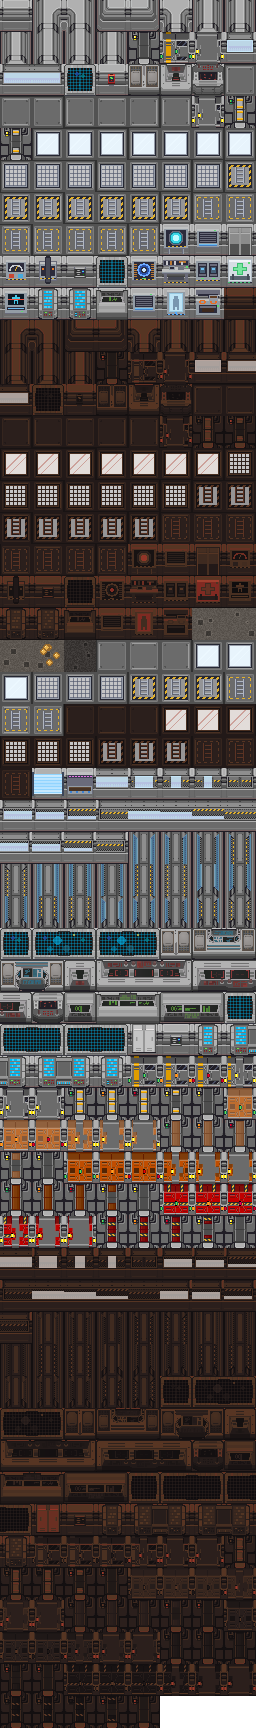
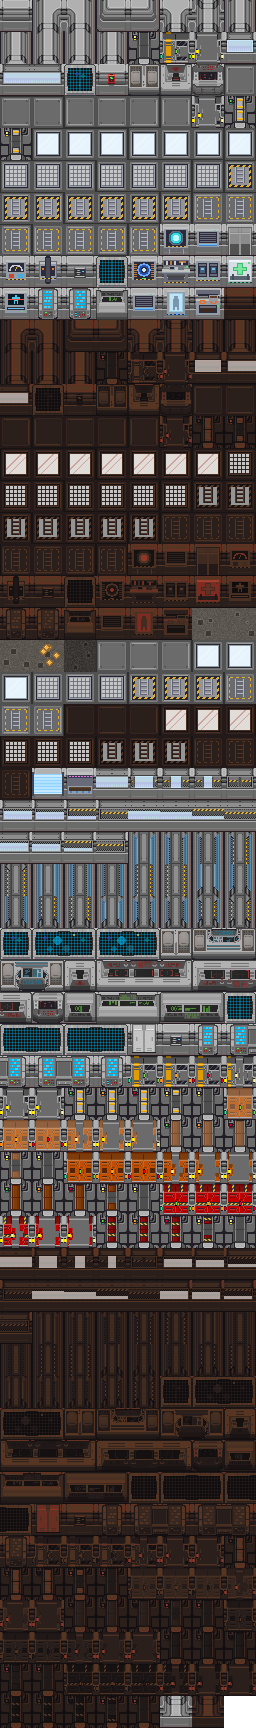
v90.1: join walls that meet a horizontal wall from above
The author's note on the v90 preview: "Wall dont have cross connection".
His set has the T joint only one way (a wall going down from the band), so
a wall coming down onto the band was drawn as a plain horizontal wall and
the crossing had no arms. Both joints are now made from his T turned over:
the crossing gets curves on both sides, and a new wall_tup piece (end of
the sheet, with its pirate copy) is a wall meeting the band from above.
MapBuilder picks it the same way; maps rebuilt. Version 0.83.1.

Claude-Session: https://claude.ai/code/session_013aoAwBojNkRjbTsNYM5ib2

Changed region(s): [[0.625, 0.9688, 0.875, 1.0], [0.8438, 0.0, 0.875, 0.0312], [0.75, 0.0, 0.7812, 0.0312]]

diff --git a/tools/make_assets.py b/tools/make_assets.py
@@ -177,6 +177,10 @@ for _type in DOOR_TYPES:
             LOOKS.append(("door_%s_%s_open%d" % (_type, _o, _i), None, "door"))
 TILES += LOOKS
 TILES += [(PIRATE + _name, None, _kind) for _name, _src, _kind in LOOKS]
+# (v90.1, the author: "Wall dont have cross connection") a horizontal wall that a vertical one meets
+# from above only (a turned T); last, as above
+TILES.append(("wall_tup", None, "wall"))
+TILES.append((PIRATE + "wall_tup", None, "wall"))
 ATLAS_COLS = 8
 
 
@@ -249,7 +253,6 @@ NEW_ART = {
     "wall_bl": "external_corner_l",
     "wall_br": "external_corner_r",
     "wall_tdown": "T-shaped_corner",
-    "wall_cross": "vertical_wall_down_to_T-shaped_corner",
     "wall_v": "vertical_wall",
     "wall_v_end": "vertical_wall_to_T-shaped_corner",
     "wall_v_end_l": "vertical_wall_to_internal_corner_r",
@@ -310,11 +313,22 @@ def art_transplant(old, old_wall, wall):
     return out
 
 
+# (v90.1) wall joints made from his T: the band piece below, and how many rows of the turned T go over it
+WALL_JOINS = {"wall_cross": ("T-shaped_corner", 16), "wall_tup": ("horizontal_wall", 20)}
+
+
 def art_tile(art, mock, images, name):
     """The picture for a tile of the sheet from the author's set, or None (drawn as before)."""
     floor = art["floor_m"]
     if name in NEW_ART:
         return art[NEW_ART[name]]
+    if name in WALL_JOINS:
+        # his set has the T only one way (a wall going down from the band): the ones going up are it
+        # turned over, its top rows over the band (rows 0..rows)
+        base, rows = WALL_JOINS[name]
+        im = art[base].copy()
+        im.paste(art["T-shaped_corner"].transpose(Image.FLIP_TOP_BOTTOM).crop((0, 0, 32, rows)), (0, 0))
+        return im
     if name == "door_half":
         return art_on(floor, art["Door_horizontal_base_open_stage_2"])
     if name == "door_open":
@@ -993,7 +1007,7 @@ def resolve_map(name, lines, ids, w, h, above, below):
                         if c == "D":
                             doors.append([x, y, "D"])
                     elif e and wst:
-                        piece = "wall_cross" if (n and s) else ("wall_tdown" if s else "wall_h")
+                        piece = "wall_cross" if (n and s) else ("wall_tdown" if s else ("wall_tup" if n else "wall_h"))
                     elif e and not wst:
                         if n == s:
                             raise MapError(f"{name}: wall end at {x},{y} has no matching corner piece")

diff --git a/CLAUDE.md b/CLAUDE.md
@@ -34,7 +34,7 @@ needs:
 
 ## Where things stand
 
-Build v90 (version 0.83: the author's own tile set for walls, floors, doors, windows and machines) is the latest. Plans one to four are done except the darkness front (the
+Build v90.1 (version 0.83.1: the author's own tile set for walls, floors, doors, windows and machines; v90.1 joins walls meeting from above) is the latest. Plans one to four are done except the darkness front (the
 author is still thinking it through); builds v40 to v60 were the author's own requests, one build each.
 v58 and v59 built the gear tiers plan (`/mnt/project-files/plans/tiers-plan.md`): guns in v58, ship gear
 (systems' tiers, the module bay, armour, focusing array, phase drive) in v59. v60 began the road plan
@@ -119,7 +119,7 @@ suit, wrecks and bodies kept, bots climb ladders whatever is in front, «К ор
 hunters 1.25x fewer, click a system to jump, a drawn gun sight, sounds heard from the feet.
 v90 (his Aseprite tile set, `art_src/tileset/`; questions on `https://claude.ai/artifact/FkyjH7eBxzYEQhCXbPkNFG`): every wall,
 floor, window and door from his set, doors in four kinds with lamps and open stages, ten machines (wide over a row of signs, from
-behind when facing up); the rest of his set (stairs, holo table, soil, floor lamps, window stages, lockers, boxes) waits for his answers.
+behind when facing up); the rest of his set (stairs, holo table, soil, floor lamps, window stages, lockers, boxes) waits for his answers. v90.1 (his note): walls meeting from above are joined (`wall_tup`, the crossing from his T turned over).
 Engines and complex atmosphere (gases, fire, electricity) only after asking the author in detail.
 
 The author's standing rules (details in `docs/DECISIONS.md`):

diff --git a/docs/DECISIONS.md b/docs/DECISIONS.md
@@ -1799,3 +1799,12 @@ Questions on "Spacer v89 Notes" (https://claude.ai/artifact/FryDUDpk8c5nbDpC3mJG
   table and sphere, ship icons, the brown and red lockers, the med/tech/fire boxes, button and wall light, soil floor, floor lamps,
   danger line, vent, stairs. The stairs are 48 and 64 px tall, so they cannot go in the 32-px sheet as they are.
 
+
+## v90.1: wall crossings (the author: "Wall dont have cross connection")
+
+- **His set has the T joint only one way**: a vertical wall going down from a horizontal one (`T-shaped_corner`). Where a
+  vertical wall meets the band from above, the band was drawn plain (`horizontal_wall`) and his
+  `vertical_wall_down_to_T-shaped_corner` crossing has no arms, so the walls looked cut. Mine: both joints are made from his T
+  turned upside down (`WALL_JOINS` in `make_assets.py`): the crossing is the T with the turned T's top 16 rows over it, and
+  a new `wall_tup` (a wall from above only) is the horizontal wall with the turned T's top 20 rows. `wall_tup` is new, so it
+  goes at the end of the sheet (with its pirate copy) and the maps are rebuilt (`MapBuilder` picks it the same way).

diff --git a/docs/HISTORY.md b/docs/HISTORY.md
@@ -205,6 +205,12 @@ Open problems:
 - Client only, protocol unchanged; `edittest` checks every look tile is in the sheet (44 scripts). Version 0.83, build in
   `/mnt/project-files/builds/v90/`.
 
+
+### v90.1 (his note on the preview: "Wall dont have cross connection")
+
+- Where a vertical wall meets a horizontal one from above, the joint is drawn now: the crossing and a new turned-T piece
+  (`wall_tup`, at the end of the sheet) made from his T. Maps rebuilt. Version 0.83.1, build in `/mnt/project-files/builds/v90.1/`.
+
 ### v89 (his 18 Notebook notes; questions on "Spacer v89 Notes")
 
 - Fixed: guns switched off by a power shortage (ion storm) now come back on by themselves; teleported pirates arrive

diff --git a/docs/MECHANICS.md b/docs/MECHANICS.md
@@ -4,7 +4,7 @@ This describes everything already in the game: how it works and with what number
 grows with every build. What the game doesn't have yet is not written here: that is in
 `docs/VISION.md` (the author's vision and plans).
 
-Last updated: build v90 (version 0.83).
+Last updated: build v90.1 (version 0.83.1).
 
 Contents:
 
